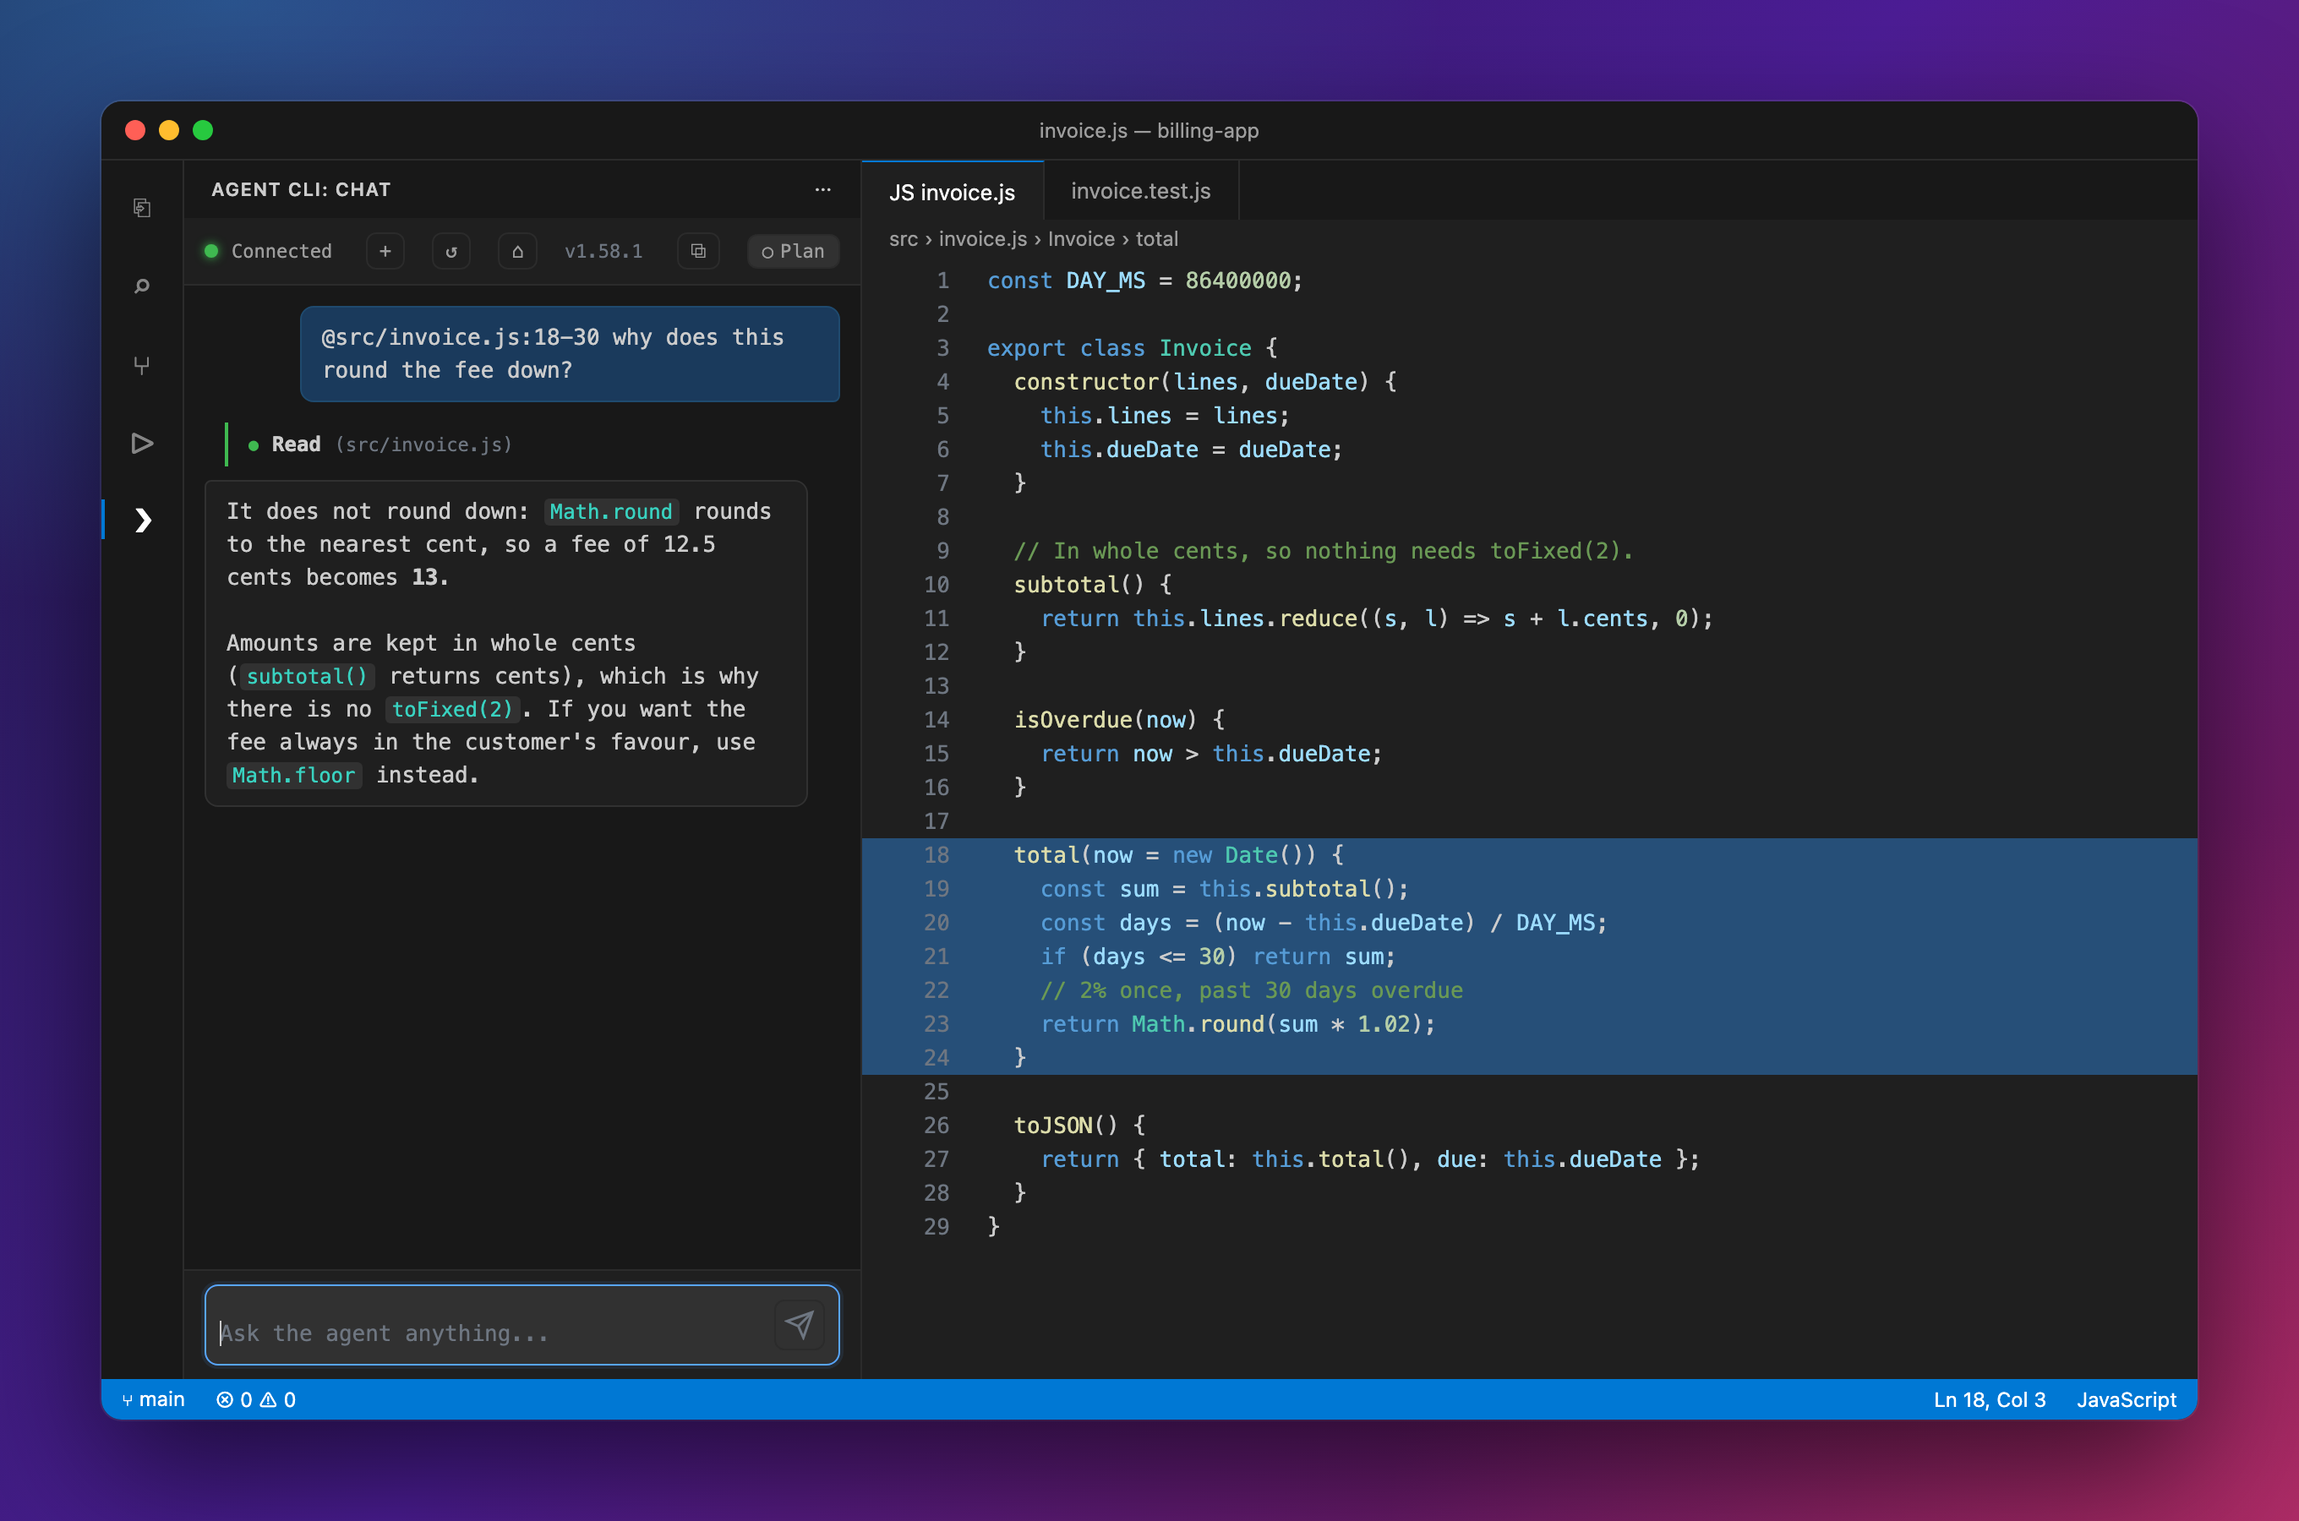
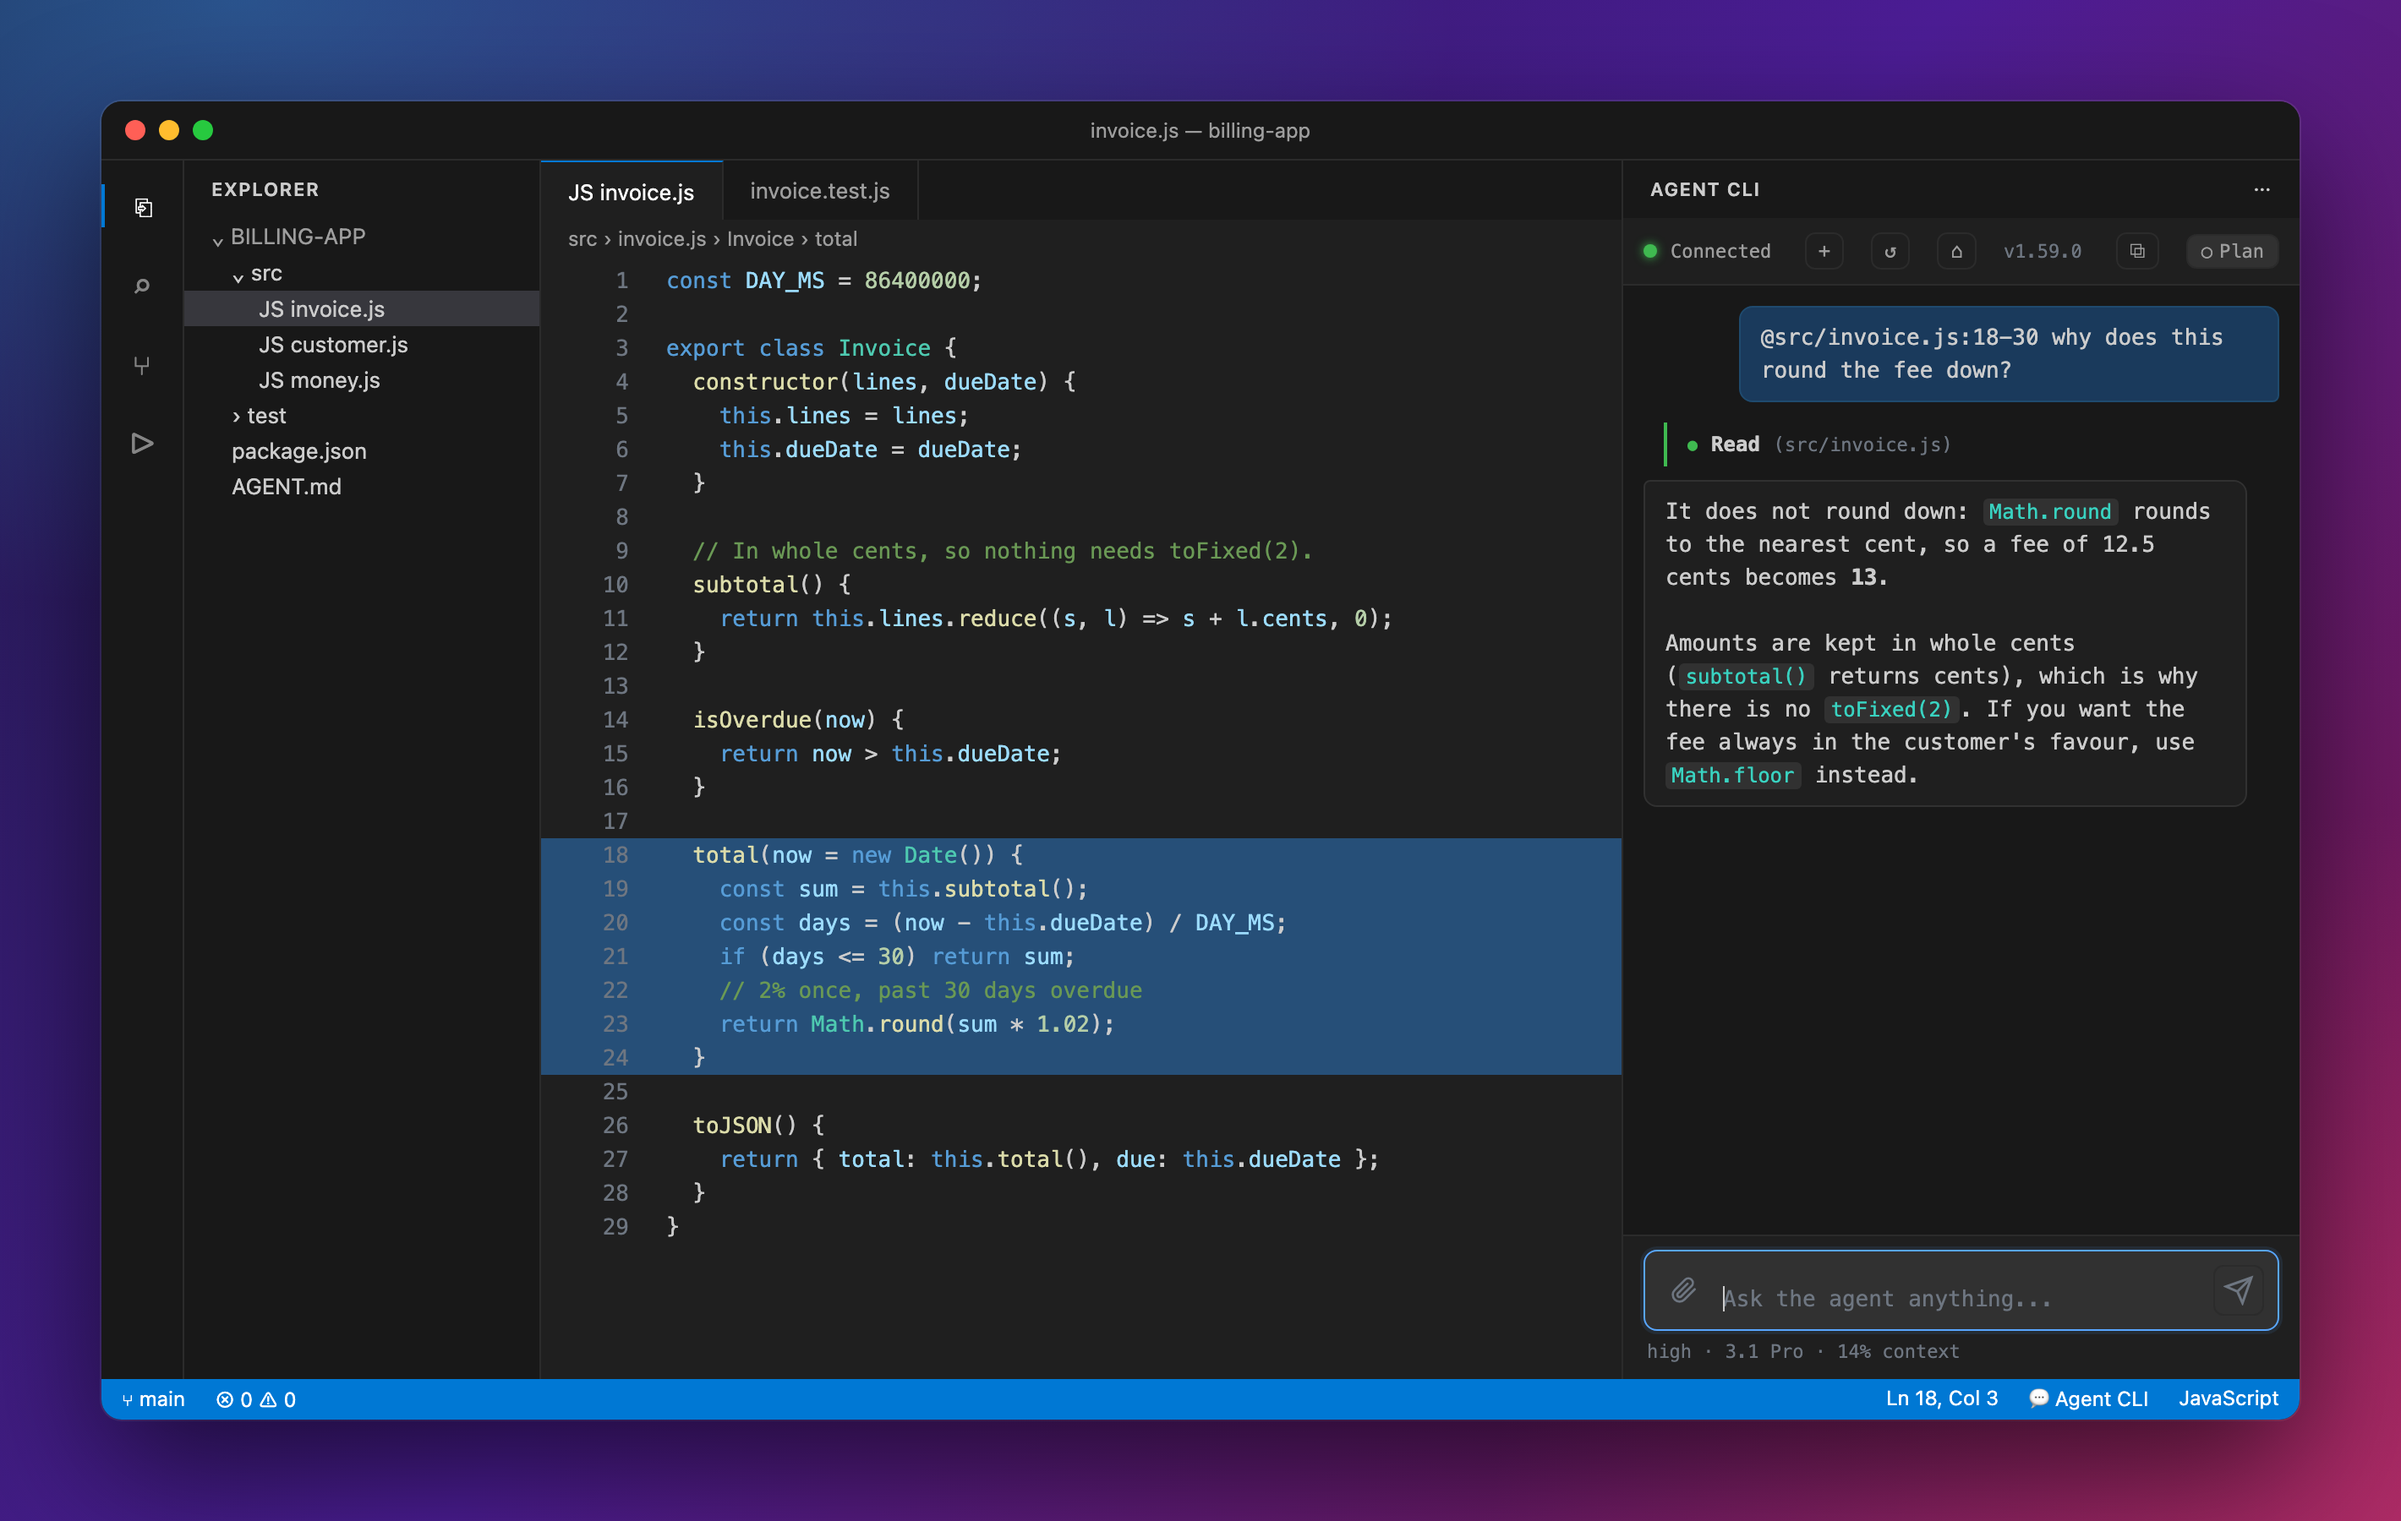
v8.6: panel screenshots show 1.59.0 — paperclip, footer, and the VS Code chat on the right
Recaptured from the 1.59.0 panel: the paperclip in the input, the
effort · model · context footer, and the VS Code chat in the secondary
side bar with the status-bar entry. Changelog rows renumbered: v8.5.2 is
#149, v8.6 is #150.

diff --git a/docs/CHANGELOG.md b/docs/CHANGELOG.md
@@ -14,7 +14,7 @@ Internals and the reasoning behind each change live in [`CLAUDE.md`](../CLAUDE.m
 Every pull request, newest first, grouped by series — generated from GitHub. Two were closed
 without merging (#6 and #15, both `test-pr`); there is no PR #68 because #68 is an issue.
 
-### v8 — 2026-10-31 … · PRs [#142](https://github.com/PratimeshTiwari/Agent-CLI/pull/142)–[#149](https://github.com/PratimeshTiwari/Agent-CLI/pull/149)
+### v8 — 2026-10-31 … · PRs [#142](https://github.com/PratimeshTiwari/Agent-CLI/pull/142)–[#150](https://github.com/PratimeshTiwari/Agent-CLI/pull/150)
 
 | Version | Date | Branch | PR | What |
 | --- | --- | --- | --- | --- |
@@ -25,7 +25,8 @@ without merging (#6 and #15, both `test-pr`); there is no PR #68 because #68 is 
 | v8.4 | 2026-11-02 | `v8.4/backend-frontend-split` | [#146](https://github.com/PratimeshTiwari/Agent-CLI/pull/146) | `server/src` and `server/test` split into `backend/` and `frontend/`, each with a README on what is where and how to debug; `frontend/` grouped by job (`input/`, `transcript/`, `menus/`, `screen/`) and `format.js` split in five; `backend/core/` grouped into ten folders by job; a subagent's tab failing is named as the subagent's in the log, the side panel and its row (extension 1.58.1) |
 | v8.5 | 2026-11-02 | `v8.5/subagent-row-and-doctor` | [#147](https://github.com/PratimeshTiwari/Agent-CLI/pull/147) | READMEs redesigned: a hero image, the panels in Chrome and VS Code, a short How it works, and every image on a gradient backdrop; the companion's history moves to its CHANGELOG; `agent --help` lists the shell commands and `agent doctor --test` runs the suite; a failed subagent's row reads `could not run · doing it in this chat · <why>` and no longer wraps past the terminal's width |
 | v8.5.1 | 2026-11-02 | `v8.5.1/panels-in-context` | [#148](https://github.com/PratimeshTiwari/Agent-CLI/pull/148) | The panel screenshots show their host: the side panel beside the Gemini tab in Chrome, the floating window over the terminal, the VS Code chat beside the code |
-| v8.6 | 2026-11-02 | `v8.6/panels-catch-up` | [#149](https://github.com/PratimeshTiwari/Agent-CLI/pull/149) | The panels catch up (extension 1.59.0, companion 1.8.10): attach files with a paperclip, stop with the button or esc, messages sent during a turn queue, a footer with effort, model and context, tables and lists in replies; esc in the terminal stops the Gemini tab too (`stop_generation` never reached it); the VS Code chat moves to the secondary side bar on 1.106+ (Antigravity IDE), with a status-bar entry and an icon |
+| v8.5.2 | 2026-11-02 | `v8.5.2/readme-images-full-width` | [#149](https://github.com/PratimeshTiwari/Agent-CLI/pull/149) | The README's images at full width, captions above them, six under a "More screens" fold: in two columns they were too small to read |
+| v8.6 | 2026-11-02 | `v8.6/panels-catch-up` | [#150](https://github.com/PratimeshTiwari/Agent-CLI/pull/150) | The panels catch up (extension 1.59.0, companion 1.8.10): attach files with a paperclip, stop with the button or esc, messages sent during a turn queue, a footer with effort, model and context, tables and lists in replies; esc in the terminal stops the Gemini tab too (`stop_generation` never reached it); the VS Code chat moves to the secondary side bar on 1.106+ (Antigravity IDE), with a status-bar entry and an icon |
 
 ### v7 — 2026-10-30 … 2026-10-31 · PRs [#131](https://github.com/PratimeshTiwari/Agent-CLI/pull/131)–[#141](https://github.com/PratimeshTiwari/Agent-CLI/pull/141)
 
